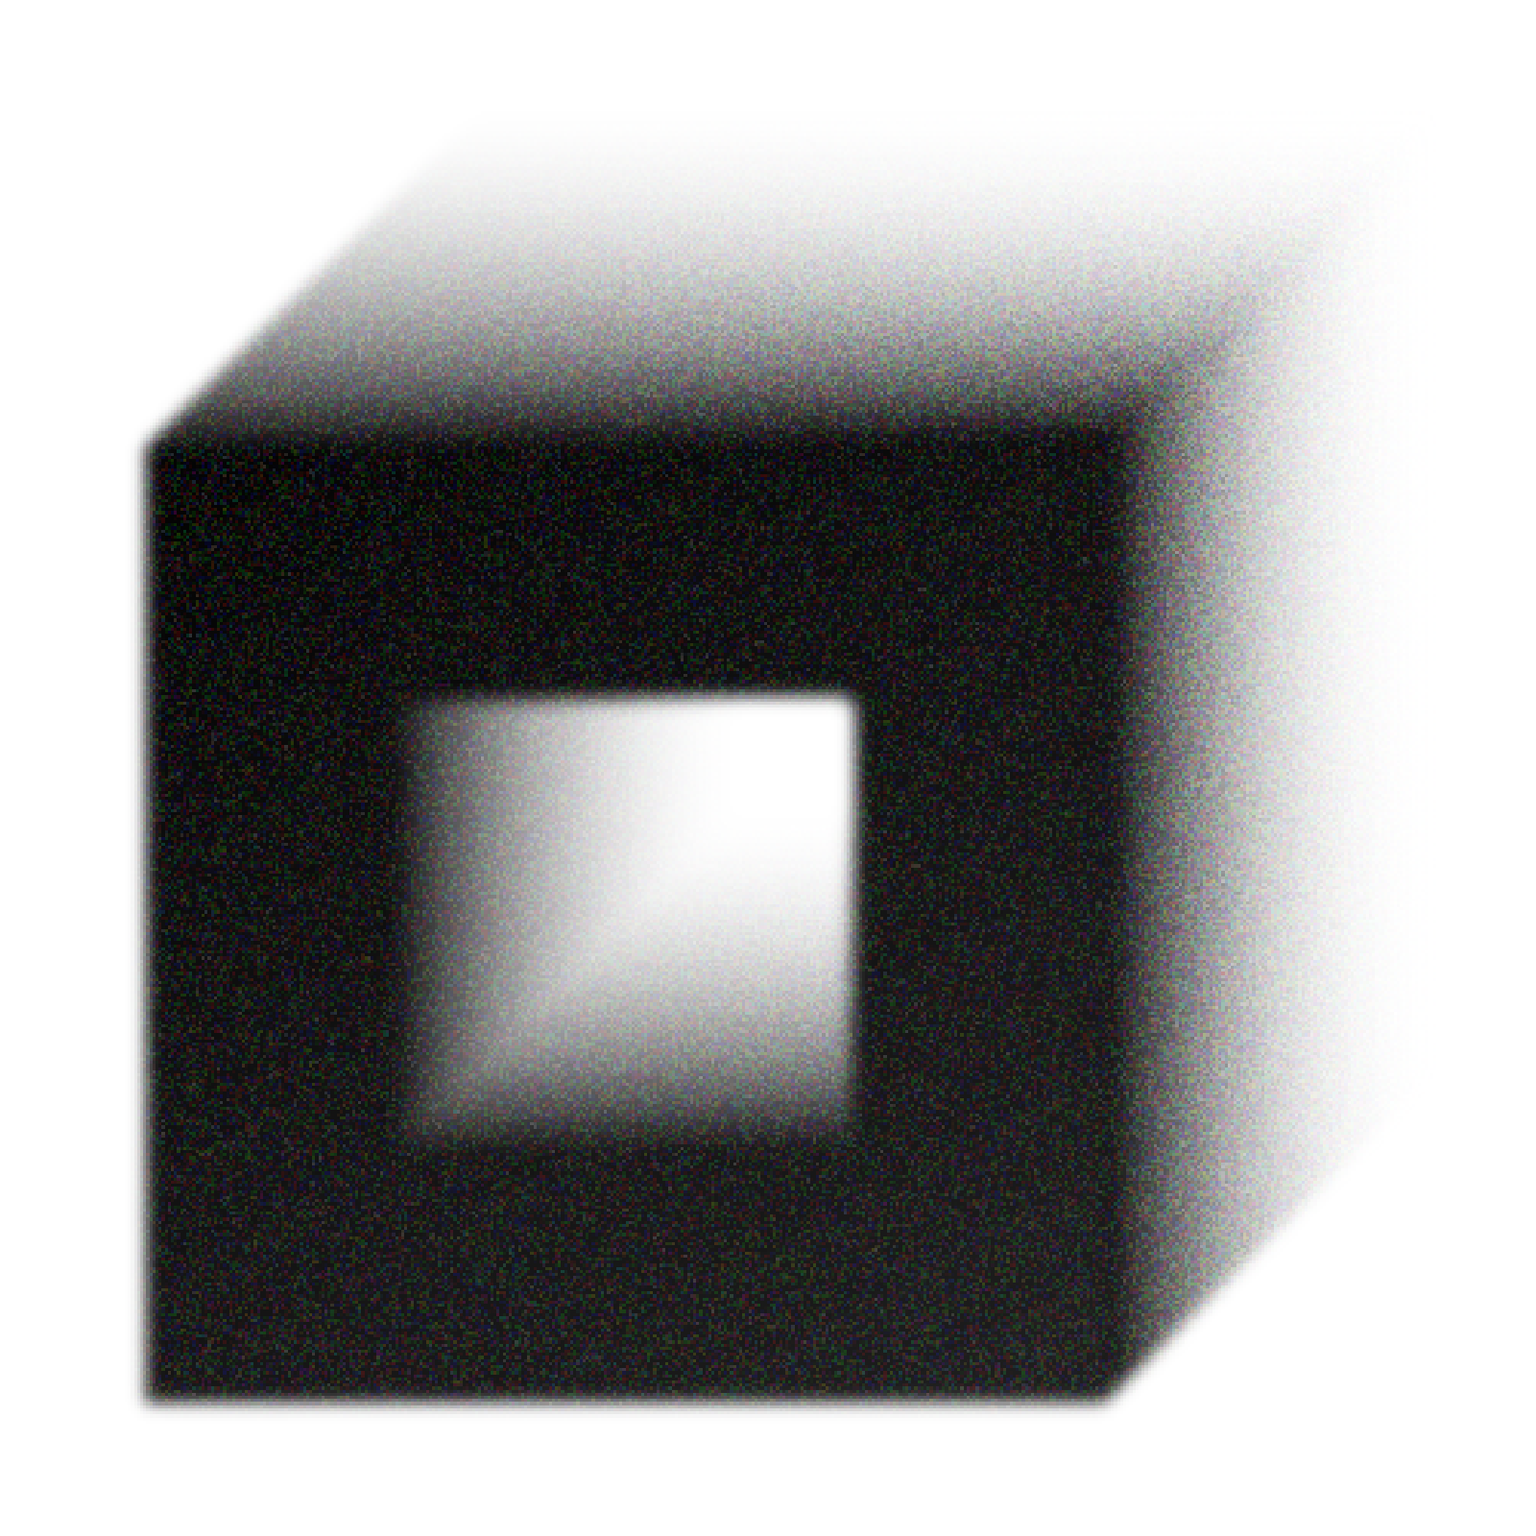
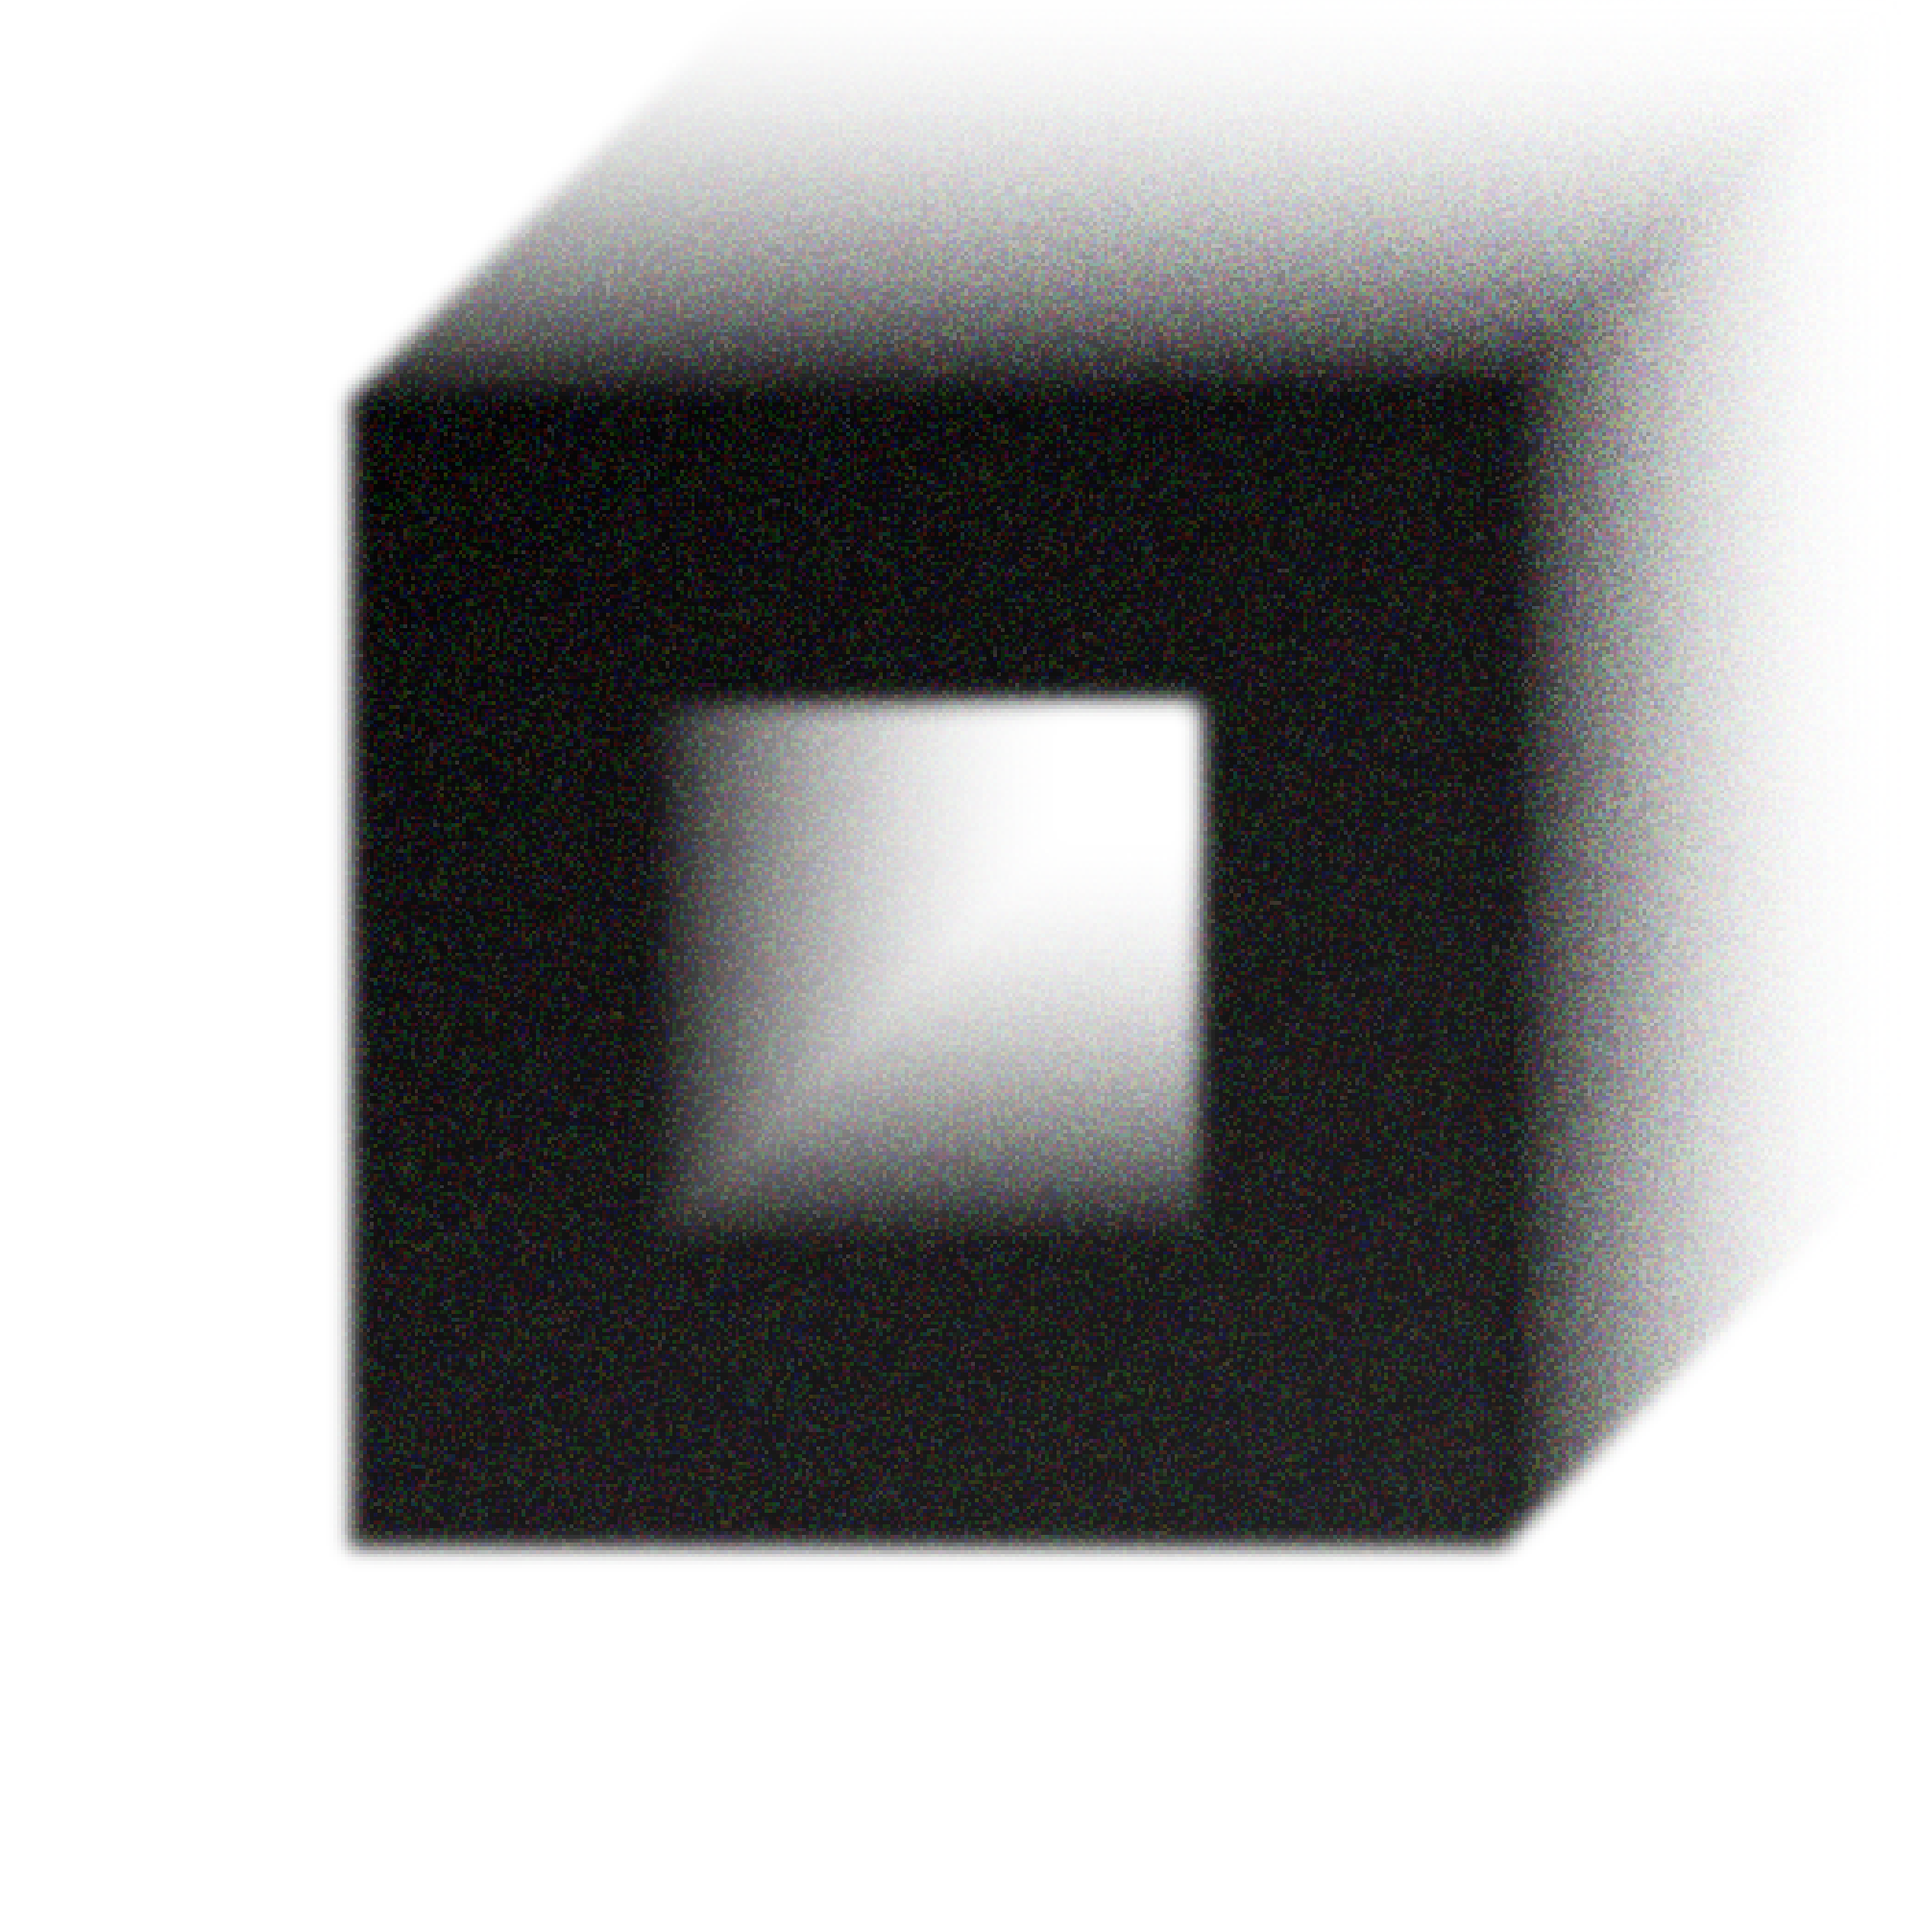
Add base styling of forms

diff --git a/styles.css b/styles.css
@@ -1,3 +1,11 @@
+:root {
+    --interactive-color: rgb(26, 41, 5);
+    --hovering-color: rgb(106, 114, 94);
+    /* --accent-color: rgb(225, 65, 129); */
+    /* --accent-color: rgb(87, 76, 7); */
+    --accent-color: rgb(205, 178, 0);
+}
+
 body {
     font-family: system-ui, -apple-system, BlinkMacSystemFont, "Segoe UI",
         Roboto, Oxygen, Ubuntu, Cantarell, "Open Sans", "Helvetica Neue",
@@ -65,11 +73,46 @@ img {
 input {
     flex: 1;
     font-family: inherit;
-    background-color: #ffffff;
-    border: 1px solid #d6d9dc;
-    border-radius: 3px;
+    background-color: #f16a6a00;
+    border: 0px solid #ffffff00;
+    border-radius: 6px;
     padding: 7px;
     font-size: 14px;
+    font-weight: 500;
+    color: #444444;
+
+    /* -webkit-box-shadow: inset 0 -5px 15px 5px #eeeeee;
+    -moz-box-shadow: inset 0 -5px 15px 5px #eeeeee;
+    box-shadow: inset 0 -5px 15px 5px #eeeeee; */
+
+    -webkit-box-shadow: inset 0 0px 12px 5px #eeeeee;
+    -moz-box-shadow: inset 0 0px 12px 5px #eeeeee;
+    box-shadow: inset 0 0px 12px 5px #eeeeee;
+}
+
+input::placeholder {
+    color: rgb(160, 160, 160);
+}
+
+input:focus {
+    outline: none;
+    -webkit-box-shadow: inset 0 0 20px 10px #eeeeee;
+    -moz-box-shadow: inset 0 0 20px 10px #eeeeee;
+    box-shadow: inset 0 0 20px 10px #eeeeee;
+}
+
+/* Lorsque l'input est valide */
+/* input:valid {
+    color: #377e39;
+} */
+
+input:invalid:not(:focus) {
+    color: rgb(170, 60, 0);
+}
+
+/* Lorsque l'input est vide */
+input:placeholder-shown {
+    border-bottom-color: #ffffff; /* Blanc */
 }
 
 .whole-input {
@@ -92,12 +135,13 @@ input {
 .foot {
     display: flex;
     flex-direction: column;
-    align-items: flex-start;
+    align-items: center;
+    gap: 8px;
 }
 
 em {
     font-style: normal;
-    color: rgb(225, 65, 129);
+    color: var(--accent-color);
     filter: blur(0);
 }
 
@@ -106,9 +150,15 @@ button {
     padding: 12px 20px;
     border: none;
     font-family: inherit;
+    color: inherit;
     font-size: 16px;
-    background-color: rgb(171, 137, 137);
-    
+    font-weight: 500;
+    background-color: var(--interactive-color);
+}
+
+button:hover {
+    /* color: var(--accent-color); */
+    background-color: var(--hovering-color);
 }
 
 .middle {
@@ -121,4 +171,20 @@ button {
     display: flex;
     flex-direction: column;
     gap: 8px;
+}
+
+label {
+    font-weight: bold;
+    margin-bottom: 2px;
+}
+
+a {
+    text-decoration: none;
+    font-weight: bold;
+    /* color: var(--accent-color); */
+    color: var(--interactive-color);
+}
+
+a:hover {
+    color: var(--hovering-color);
 }

diff --git a/index.html b/index.html
@@ -9,7 +9,7 @@
     <body>
         <div class="left">
             <h1>cub·ic</h1>
-            <img src="img/cube_2.ai.png" alt="logo">
+            <img src="img/cube.ai.png" alt="logo">
         </div>
         <div class="right">
             <div class="panel">
